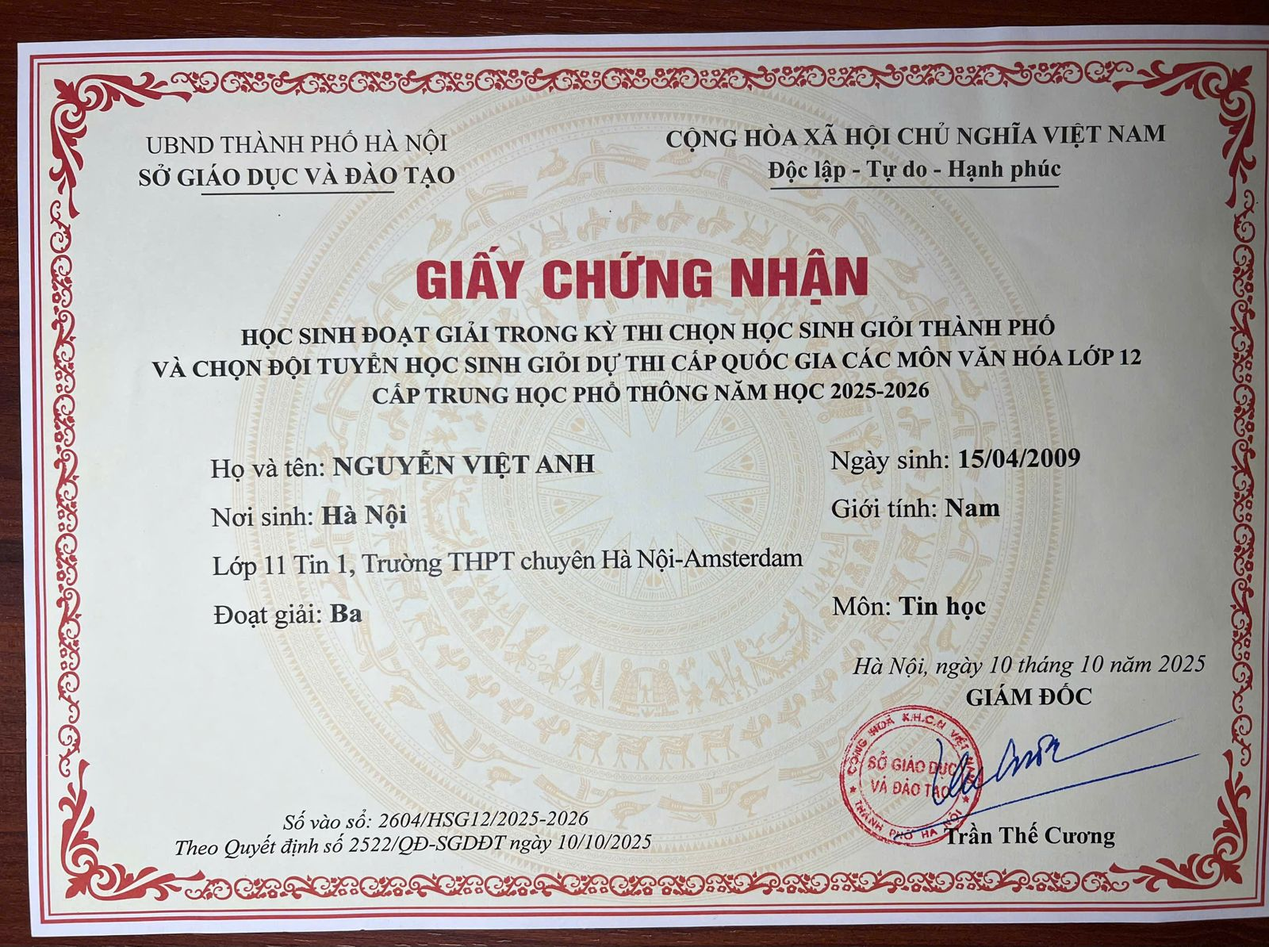
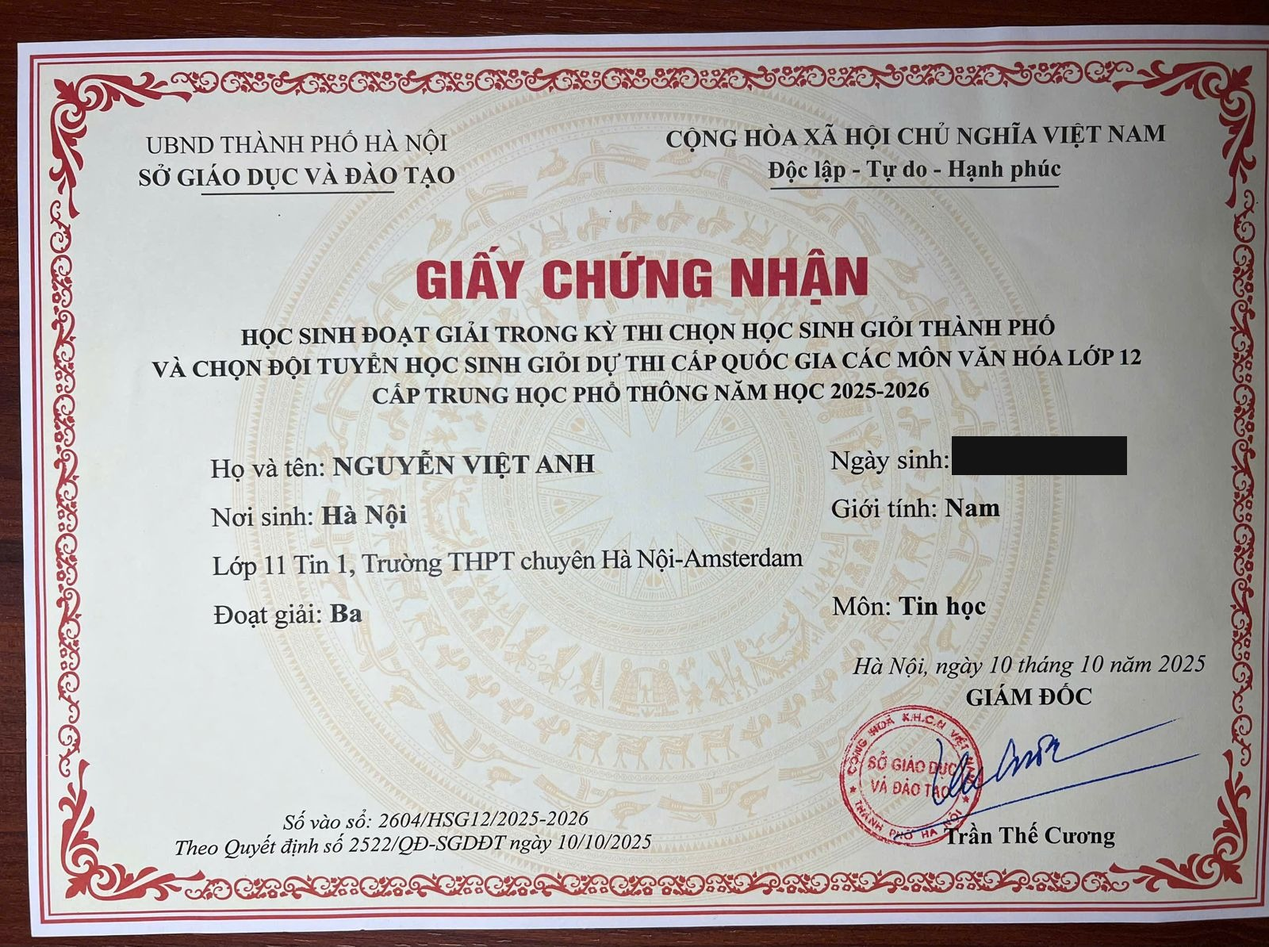
QA pass: add 2 missing international awards, redact DOB from cert scan
- Add AI-JAM US 2026 Gold Award (MediCare Hub) and AXGO AX Global
  Olympiad 2026 Grand Prix (AI Table Tennis Coach) to the awards
  section (VI+EN) and journey timeline; both were sitting in the
  student's Drive folder but never made it onto the site.
- Redact date of birth (15/04/2009) that was legible on the existing
  "Giai Ba cap thanh pho" certificate thumbnail already used on the
  site, per privacy policy.

Changed region(s): [[0.75, 0.4338, 0.9062, 0.5268]]

diff --git a/index.html b/index.html
@@ -116,4 +116,4 @@ footer{border-top:1px solid #d8dee4;color:#6e7781;font-size:.8rem}
 .lang-switch{background:rgba(255,255,255,.92);border:1px solid #d0d7de;box-shadow:0 3px 10px rgba(31,35,40,.08)}
 .lbtn{color:#656d76;font-family:'Fira Code',monospace}.lbtn.active{background:#1f883d;color:#fff}
 .certimg{border-radius:8px;border:1px solid #d0d7de}
-</style></head><body class='lay-center aw-grid act-zig'><div class='lang-switch'><button class='lbtn' data-l='en'>EN</button><button class='lbtn' data-l='vi'>VI</button></div><div class='pane-vi' lang='vi'><header><div class='container'><div class='term'><div class='term-bar'><i></i><i></i><i></i><span>nguyenvietanh@portfolio:~</span></div><div class='term-body'><img class='avatar' src='assets/img/avatar.jpg' alt='Nguyễn Việt Anh'><div><span class='prompt'>$</span> <span class='cmd'>whoami</span></div><h1>Nguyễn Việt Anh</h1><div class='school'>THPT chuyên Hà Nội – Amsterdam · Lớp 11 Tin 1</div><div class='tagline'>Học sinh chuyên Tin · Huy chương Vàng HSGS Olympiad · Competitive Programming</div><div><br><span class='prompt'>$</span> <span class='cmd'>cat achievements.json</span></div><div class='stats'><div class='stat'><b>HCV</b><span>HSGS Olympiad – Tin học 2025</span></div><div class='stat'><b>Giải Ba</b><span>HSG TP Hà Nội lớp 12 (2025–26)</span></div><div class='stat'><b>Giải Ba</b><span>Olympic ĐHQGHN – Tin học</span></div></div></div></div></div></header><nav class='topnav'><a href='#about-vi'>Giới thiệu</a><a href='#awards-vi'>Thành tích</a><a href='#journey-vi'>Hành trình</a><a href='#activities-vi'>Hoạt động</a><a href='#skills-vi'>Kỹ năng</a></nav><main class='container'><section id='about-vi'><h2>Giới thiệu</h2><div class='card'><p style='margin-top:0'>Mình là Nguyễn Việt Anh, học sinh lớp 11 Tin 1, trường THPT chuyên Hà Nội – Amsterdam. Mình theo đuổi lập trình thi đấu (competitive programming) từ THCS và đã đạt nhiều giải thưởng Tin học các cấp: Huy chương Vàng HSGS Olympiad, giải Ba HSG Thành phố Hà Nội lớp 12 và giải Ba Olympic bậc THPT của ĐHQG Hà Nội khi mới học lớp 11. Mình cũng tích cực tham gia hoạt động thiện nguyện vì trẻ em.</p><blockquote class='quote'>“Mỗi bài toán khó đều có lời giải — chỉ cần đủ kiên nhẫn để debug.”</blockquote></div></section><section id='awards-vi'><h2>Thành tích & Giải thưởng</h2><div class='awgrid'><div class='card award reveal rk-gold'><div class='medal'>🥇</div><div class='awbody'><span class='rklab'>Vàng · Gold</span><h3>Huy chương Vàng môn Tin học – HSGS Olympiad (Olympic Chuyên KHTN)</h3><div class='org'>THPT Chuyên KHTN &amp; ĐH Khoa học Tự nhiên, 05/2025</div></div><a class='awthumb' href='assets/img/award-huy-chuong-vang-mon-tin-hoc-hsgs-olympiad-olympic-.jpg'><img src='assets/img/award-huy-chuong-vang-mon-tin-hoc-hsgs-olympiad-olympic-.jpg' alt='Huy chương Vàng môn Tin học – HSGS Olympiad (Olympic Chuyên KHTN)' loading='lazy'></a></div><div class='card award reveal rk-bronze'><div class='medal'>🥉</div><div class='awbody'><span class='rklab'>Đồng · Bronze</span><h3>Giải Ba kỳ thi chọn HSG Thành phố các môn văn hóa lớp 12 – môn Tin học (2025–2026)</h3><div class='org'>Sở GD&amp;ĐT Hà Nội – khi đang học lớp 11</div></div><a class='awthumb' href='assets/img/award-giai-ba-ky-thi-chon-hsg-thanh-pho-cac-mon-van-hoa-.jpg'><img src='assets/img/award-giai-ba-ky-thi-chon-hsg-thanh-pho-cac-mon-van-hoa-.jpg' alt='Giải Ba kỳ thi chọn HSG Thành phố các môn văn hóa lớp 12 – môn Tin học (2025–2026)' loading='lazy'></a></div><div class='card award reveal rk-bronze'><div class='medal'>🥉</div><div class='awbody'><span class='rklab'>Đồng · Bronze</span><h3>Giải Ba kỳ thi Olympic bậc THPT của ĐHQG Hà Nội – môn Tin học (2025–2026)</h3><div class='org'>Đại học Quốc gia Hà Nội</div></div></div><div class='card award reveal rk-silver'><div class='medal'>🥈</div><div class='awbody'><span class='rklab'>Bạc · Silver</span><h3>Giải Nhì kỳ thi HSG cấp quận môn Tin học (2023–2024)</h3><div class='org'>Phòng GD&amp;ĐT Quận Cầu Giấy – THCS Archimedes Academy</div></div><a class='awthumb' href='assets/img/award-giai-nhi-ky-thi-hsg-cap-quan-mon-tin-hoc-2023-2024.jpg'><img src='assets/img/award-giai-nhi-ky-thi-hsg-cap-quan-mon-tin-hoc-2023-2024.jpg' alt='Giải Nhì kỳ thi HSG cấp quận môn Tin học (2023–2024)' loading='lazy'></a></div></div></section><section id='journey-vi'><h2>Hành trình</h2><div class='card reveal'><div class='tl'><div class='tl-item'><span class='tl-year'>2023</span><p>Giải Nhì kỳ thi HSG cấp quận môn Tin học (Quận Cầu Giấy) khi học lớp 9 tại THCS Archimedes Academy.</p></div><div class='tl-item'><span class='tl-year'>2024</span><p>Trúng tuyển lớp chuyên Tin, THPT chuyên Hà Nội – Amsterdam.</p></div><div class='tl-item'><span class='tl-year'>2025</span><p>Huy chương Vàng môn Tin học tại HSGS Olympiad (05/2025); Giải Ba HSG Thành phố lớp 12 môn Tin học khi đang học lớp 11 (10/2025).</p></div><div class='tl-item'><span class='tl-year'>2026</span><p>Giải Ba Olympic bậc THPT của ĐHQG Hà Nội môn Tin học (01/2026); thiện nguyện tại Bệnh viện Nhi Trung ương; phát triển ý tưởng “Hệ thống an toàn cho ô tô”.</p></div></div><a href='assets/img/journey-roadmap.jpg'><img class='certimg' style='max-width:100%;margin-top:14px' src='assets/img/journey-roadmap.jpg' alt='journey roadmap' loading='lazy'></a></div></section><section id='activities-vi'><h2>Hoạt động ngoại khóa & Dự án</h2><div class='actwrap'><div class='card reveal'><h3>Sản phẩm cá nhân: Hệ thống an toàn cho ô tô (AI + IoT)</h3><p>Thiết kế hệ thống an toàn toàn diện cho ô tô gồm: hệ thống đo mức độ tập trung của người lái xe bằng thiết bị đeo tai kết hợp camera xử lý ảnh; các cảm biến phát hiện trẻ em bị bỏ quên trên xe; cảm biến phát hiện chất độc hại trong khoang xe như cồn, khói thuốc lá, nhiệt độ cao, khí CO2…; và mô-đun dự đoán nguy hiểm xung quanh xe bằng công nghệ AI kết hợp cảm biến IoT.</p><ul class='pts'><li>Đo mức độ tập trung của người lái xe bằng thiết bị đeo tai kết hợp camera xử lý ảnh.</li><li>Cụm cảm biến phát hiện trẻ em bị bỏ quên trên xe.</li><li>Phát hiện tác nhân nguy hiểm trong khoang xe: nồng độ cồn, khói thuốc lá, nhiệt độ cao, khí CO2…</li><li>Dự đoán nguy hiểm xung quanh ô tô bằng công nghệ AI kết hợp mạng cảm biến IoT.</li></ul><div class='gallery'><a href='assets/img/act0-0.jpg'><img src='assets/img/act0-0.jpg' alt='Sản phẩm cá nhân: Hệ thống an toàn cho ô tô (AI + IoT)' loading='lazy'></a></div></div><div class='card reveal'><h3>Thiện nguyện tại Bệnh viện Nhi Trung ương (2026)</h3><p>Tham gia thăm hỏi, tặng quà và tổ chức hoạt động cho các bệnh nhi đang điều trị tại Bệnh viện Nhi Trung ương, Hà Nội.</p><div class='gallery'><a href='assets/img/act1-0.jpg'><img src='assets/img/act1-0.jpg' alt='Thiện nguyện tại Bệnh viện Nhi Trung ương (2026)' loading='lazy'></a><a href='assets/img/act1-1.jpg'><img src='assets/img/act1-1.jpg' alt='Thiện nguyện tại Bệnh viện Nhi Trung ương (2026)' loading='lazy'></a><a href='assets/img/act1-2.jpg'><img src='assets/img/act1-2.jpg' alt='Thiện nguyện tại Bệnh viện Nhi Trung ương (2026)' loading='lazy'></a><a href='assets/img/act1-3.jpg'><img src='assets/img/act1-3.jpg' alt='Thiện nguyện tại Bệnh viện Nhi Trung ương (2026)' loading='lazy'></a><a href='assets/img/act1-4.jpg'><img src='assets/img/act1-4.jpg' alt='Thiện nguyện tại Bệnh viện Nhi Trung ương (2026)' loading='lazy'></a><a href='assets/img/act1-5.jpg'><img src='assets/img/act1-5.jpg' alt='Thiện nguyện tại Bệnh viện Nhi Trung ương (2026)' loading='lazy'></a><a href='assets/img/act1-6.jpg'><img src='assets/img/act1-6.jpg' alt='Thiện nguyện tại Bệnh viện Nhi Trung ương (2026)' loading='lazy'></a><a href='assets/img/act1-7.jpg'><img src='assets/img/act1-7.jpg' alt='Thiện nguyện tại Bệnh viện Nhi Trung ương (2026)' loading='lazy'></a></div></div><div class='card reveal'><h3>Trải nghiệm ngoại khóa Tuyên Quang 2026</h3><p>Chuyến trải nghiệm ngoại khóa tại Tuyên Quang cùng học sinh nhiều trường: sinh hoạt chuyên đề tại hội trường, giao lưu và các hoạt động làm việc nhóm.</p><div class='gallery'><a href='assets/img/act2-0.jpg'><img src='assets/img/act2-0.jpg' alt='Trải nghiệm ngoại khóa Tuyên Quang 2026' loading='lazy'></a><a href='assets/img/act2-1.jpg'><img src='assets/img/act2-1.jpg' alt='Trải nghiệm ngoại khóa Tuyên Quang 2026' loading='lazy'></a><a href='assets/img/act2-2.jpg'><img src='assets/img/act2-2.jpg' alt='Trải nghiệm ngoại khóa Tuyên Quang 2026' loading='lazy'></a><a href='assets/img/act2-3.jpg'><img src='assets/img/act2-3.jpg' alt='Trải nghiệm ngoại khóa Tuyên Quang 2026' loading='lazy'></a><a href='assets/img/act2-4.jpg'><img src='assets/img/act2-4.jpg' alt='Trải nghiệm ngoại khóa Tuyên Quang 2026' loading='lazy'></a><a href='assets/img/act2-5.jpg'><img src='assets/img/act2-5.jpg' alt='Trải nghiệm ngoại khóa Tuyên Quang 2026' loading='lazy'></a><a href='assets/img/act2-6.jpg'><img src='assets/img/act2-6.jpg' alt='Trải nghiệm ngoại khóa Tuyên Quang 2026' loading='lazy'></a><a href='assets/img/act2-7.jpg'><img src='assets/img/act2-7.jpg' alt='Trải nghiệm ngoại khóa Tuyên Quang 2026' loading='lazy'></a><a href='assets/img/act2-8.jpg'><img src='assets/img/act2-8.jpg' alt='Trải nghiệm ngoại khóa Tuyên Quang 2026' loading='lazy'></a><a href='assets/img/act2-9.jpg'><img src='assets/img/act2-9.jpg' alt='Trải nghiệm ngoại khóa Tuyên Quang 2026' loading='lazy'></a><a href='assets/img/act2-10.jpg'><img src='assets/img/act2-10.jpg' alt='Trải nghiệm ngoại khóa Tuyên Quang 2026' loading='lazy'></a></div></div></div></section><div class='twocol'><section id='skills-vi'><h2>Kỹ năng</h2><div class='card reveal'><div class='skillgrid' style='grid-template-columns:1fr'><div class='skill'><span>C++ &amp; lập trình thi đấu<em>95%</em></span><div class='bar'><i style='width:95%'></i></div></div><div class='skill'><span>Thuật toán &amp; cấu trúc dữ liệu<em>92%</em></span><div class='bar'><i style='width:92%'></i></div></div><div class='skill'><span>Python<em>75%</em></span><div class='bar'><i style='width:75%'></i></div></div><div class='skill'><span>Tư duy giải quyết vấn đề<em>90%</em></span><div class='bar'><i style='width:90%'></i></div></div><div class='skill'><span>Thiết kế hệ thống IoT<em>70%</em></span><div class='bar'><i style='width:70%'></i></div></div></div><a href='assets/img/skill-radar.jpg'><img class='certimg' style='max-width:100%;margin-top:20px' src='assets/img/skill-radar.jpg' alt='skill radar' loading='lazy'></a></div></section><section><h2>Sở thích & Quan tâm</h2><div class='card'><div class='chips'><span>Competitive programming</span><span>An toàn giao thông</span><span>AI ứng dụng</span><span>Thiện nguyện</span></div></div><h2 style='margin-top:26px'>Định hướng tương lai</h2><div class='card'><p style='margin-top:0'>Mục tiêu gần của mình là giành suất vào đội tuyển HSG Quốc gia môn Tin học. Xa hơn, mình muốn theo đuổi ngành Khoa học Máy tính, hiện thực hóa hệ thống an toàn ô tô bằng AI + IoT từ bản thiết kế thành nguyên mẫu chạy thật.</p></div></section></div></main><footer>© 2026 Nguyễn Việt Anh · Portfolio học sinh</footer></div><div class='pane-en' lang='en'><header><div class='container'><div class='term'><div class='term-bar'><i></i><i></i><i></i><span>nguyenvietanh@portfolio:~</span></div><div class='term-body'><img class='avatar' src='assets/img/avatar.jpg' alt='Nguyễn Việt Anh'><div><span class='prompt'>$</span> <span class='cmd'>whoami</span></div><h1>Nguyễn Việt Anh</h1><div class='school'>Hanoi – Amsterdam High School for the Gifted · Class 11 Informatics 1</div><div class='tagline'>Informatics-major student · HSGS Olympiad Gold Medalist · Competitive programming</div><div><br><span class='prompt'>$</span> <span class='cmd'>cat achievements.json</span></div><div class='stats'><div class='stat'><b>HCV</b><span>HSGS Olympiad Gold – Informatics 2025</span></div><div class='stat'><b>3rd Prize</b><span>Hanoi City Contest, Grade 12 (2025–26)</span></div><div class='stat'><b>3rd Prize</b><span>VNU Hanoi Olympiad – Informatics</span></div></div></div></div></div></header><nav class='topnav'><a href='#about-en'>About</a><a href='#awards-en'>Awards</a><a href='#journey-en'>Journey</a><a href='#activities-en'>Activities</a><a href='#skills-en'>Skills</a></nav><main class='container'><section id='about-en'><h2>About Me</h2><div class='card'><p style='margin-top:0'>I am Nguyen Viet Anh, a student of Class 11 Informatics 1 at Hanoi – Amsterdam High School for the Gifted. I have pursued competitive programming since middle school and have won Informatics awards at every level: a Gold Medal at the HSGS Olympiad, Third Prize at the Hanoi City Grade-12 Contest and Third Prize at the VNU Hanoi High-School Olympiad — all while still in grade 11. I also volunteer for children&#x27;s causes.</p><blockquote class='quote'>“Every hard problem has a solution — you just need the patience to debug it.”</blockquote></div></section><section id='awards-en'><h2>Honors & Awards</h2><div class='awgrid'><div class='card award reveal rk-gold'><div class='medal'>🥇</div><div class='awbody'><span class='rklab'>Gold</span><h3>Gold Medal in Informatics – HSGS Olympiad</h3><div class='org'>HSGS &amp; VNU University of Science, May 2025</div></div><a class='awthumb' href='assets/img/award-huy-chuong-vang-mon-tin-hoc-hsgs-olympiad-olympic-.jpg'><img src='assets/img/award-huy-chuong-vang-mon-tin-hoc-hsgs-olympiad-olympic-.jpg' alt='Gold Medal in Informatics – HSGS Olympiad' loading='lazy'></a></div><div class='card award reveal rk-bronze'><div class='medal'>🥉</div><div class='awbody'><span class='rklab'>Bronze</span><h3>Third Prize – Hanoi City Excellent Student Contest, Grade-12 Informatics (2025–2026)</h3><div class='org'>Hanoi Department of Education &amp; Training – achieved while in grade 11</div></div><a class='awthumb' href='assets/img/award-giai-ba-ky-thi-chon-hsg-thanh-pho-cac-mon-van-hoa-.jpg'><img src='assets/img/award-giai-ba-ky-thi-chon-hsg-thanh-pho-cac-mon-van-hoa-.jpg' alt='Third Prize – Hanoi City Excellent Student Contest, Grade-12 Informatics (2025–2026)' loading='lazy'></a></div><div class='card award reveal rk-bronze'><div class='medal'>🥉</div><div class='awbody'><span class='rklab'>Bronze</span><h3>Third Prize – VNU Hanoi High-School Olympiad in Informatics (2025–2026)</h3><div class='org'>Vietnam National University, Hanoi</div></div></div><div class='card award reveal rk-silver'><div class='medal'>🥈</div><div class='awbody'><span class='rklab'>Silver</span><h3>Second Prize – District Excellent Student Contest in Informatics (2023–2024)</h3><div class='org'>Cau Giay District – Archimedes Academy Secondary School</div></div><a class='awthumb' href='assets/img/award-giai-nhi-ky-thi-hsg-cap-quan-mon-tin-hoc-2023-2024.jpg'><img src='assets/img/award-giai-nhi-ky-thi-hsg-cap-quan-mon-tin-hoc-2023-2024.jpg' alt='Second Prize – District Excellent Student Contest in Informatics (2023–2024)' loading='lazy'></a></div></div></section><section id='journey-en'><h2>Journey</h2><div class='card reveal'><div class='tl'><div class='tl-item'><span class='tl-year'>2023</span><p>Second Prize at the district Informatics contest (Cau Giay) while in grade 9 at Archimedes Academy.</p></div><div class='tl-item'><span class='tl-year'>2024</span><p>Admitted to the Informatics-major class at Hanoi – Amsterdam High School for the Gifted.</p></div><div class='tl-item'><span class='tl-year'>2025</span><p>Gold Medal in Informatics at the HSGS Olympiad (May 2025); Third Prize at the Hanoi City grade-12 Informatics contest while in grade 11 (Oct 2025).</p></div><div class='tl-item'><span class='tl-year'>2026</span><p>Third Prize at the VNU Hanoi High-School Olympiad in Informatics (Jan 2026); volunteered at the National Children&#x27;s Hospital; developing the “Car safety system” concept.</p></div></div><a href='assets/img/journey-roadmap.jpg'><img class='certimg' style='max-width:100%;margin-top:14px' src='assets/img/journey-roadmap.jpg' alt='journey roadmap' loading='lazy'></a></div></section><section id='activities-en'><h2>Extracurriculars & Projects</h2><div class='actwrap'><div class='card reveal'><h3>Personal project: Car safety system (AI + IoT)</h3><p>Designing a comprehensive car-safety system: a driver-attention monitor combining an ear-worn device with an image-processing camera; sensors detecting children left behind in the car; cabin sensors detecting hazards such as alcohol, cigarette smoke, high temperature and CO2; and an AI + IoT module predicting dangers around the vehicle.</p><ul class='pts'><li>Driver-attention measurement using an ear-worn device combined with an image-processing camera.</li><li>Sensor cluster detecting children accidentally left in the vehicle.</li><li>Cabin-hazard detection: alcohol vapour, cigarette smoke, high temperature, CO2 levels…</li><li>Danger prediction around the vehicle using AI combined with an IoT sensor network.</li></ul><div class='gallery'><a href='assets/img/act0-0.jpg'><img src='assets/img/act0-0.jpg' alt='Personal project: Car safety system (AI + IoT)' loading='lazy'></a></div></div><div class='card reveal'><h3>Volunteering at the National Children&#x27;s Hospital (2026)</h3><p>Visited, gave gifts and organized activities for young patients at the National Children&#x27;s Hospital, Hanoi.</p><div class='gallery'><a href='assets/img/act1-0.jpg'><img src='assets/img/act1-0.jpg' alt='Volunteering at the National Children&#x27;s Hospital (2026)' loading='lazy'></a><a href='assets/img/act1-1.jpg'><img src='assets/img/act1-1.jpg' alt='Volunteering at the National Children&#x27;s Hospital (2026)' loading='lazy'></a><a href='assets/img/act1-2.jpg'><img src='assets/img/act1-2.jpg' alt='Volunteering at the National Children&#x27;s Hospital (2026)' loading='lazy'></a><a href='assets/img/act1-3.jpg'><img src='assets/img/act1-3.jpg' alt='Volunteering at the National Children&#x27;s Hospital (2026)' loading='lazy'></a><a href='assets/img/act1-4.jpg'><img src='assets/img/act1-4.jpg' alt='Volunteering at the National Children&#x27;s Hospital (2026)' loading='lazy'></a><a href='assets/img/act1-5.jpg'><img src='assets/img/act1-5.jpg' alt='Volunteering at the National Children&#x27;s Hospital (2026)' loading='lazy'></a><a href='assets/img/act1-6.jpg'><img src='assets/img/act1-6.jpg' alt='Volunteering at the National Children&#x27;s Hospital (2026)' loading='lazy'></a><a href='assets/img/act1-7.jpg'><img src='assets/img/act1-7.jpg' alt='Volunteering at the National Children&#x27;s Hospital (2026)' loading='lazy'></a></div></div><div class='card reveal'><h3>Tuyên Quang Excursion 2026</h3><p>An extracurricular excursion to Tuyên Quang with students from many schools: hall seminars, exchange sessions and team-building activities.</p><div class='gallery'><a href='assets/img/act2-0.jpg'><img src='assets/img/act2-0.jpg' alt='Tuyên Quang Excursion 2026' loading='lazy'></a><a href='assets/img/act2-1.jpg'><img src='assets/img/act2-1.jpg' alt='Tuyên Quang Excursion 2026' loading='lazy'></a><a href='assets/img/act2-2.jpg'><img src='assets/img/act2-2.jpg' alt='Tuyên Quang Excursion 2026' loading='lazy'></a><a href='assets/img/act2-3.jpg'><img src='assets/img/act2-3.jpg' alt='Tuyên Quang Excursion 2026' loading='lazy'></a><a href='assets/img/act2-4.jpg'><img src='assets/img/act2-4.jpg' alt='Tuyên Quang Excursion 2026' loading='lazy'></a><a href='assets/img/act2-5.jpg'><img src='assets/img/act2-5.jpg' alt='Tuyên Quang Excursion 2026' loading='lazy'></a><a href='assets/img/act2-6.jpg'><img src='assets/img/act2-6.jpg' alt='Tuyên Quang Excursion 2026' loading='lazy'></a><a href='assets/img/act2-7.jpg'><img src='assets/img/act2-7.jpg' alt='Tuyên Quang Excursion 2026' loading='lazy'></a><a href='assets/img/act2-8.jpg'><img src='assets/img/act2-8.jpg' alt='Tuyên Quang Excursion 2026' loading='lazy'></a><a href='assets/img/act2-9.jpg'><img src='assets/img/act2-9.jpg' alt='Tuyên Quang Excursion 2026' loading='lazy'></a><a href='assets/img/act2-10.jpg'><img src='assets/img/act2-10.jpg' alt='Tuyên Quang Excursion 2026' loading='lazy'></a></div></div></div></section><div class='twocol'><section id='skills-en'><h2>Skills</h2><div class='card reveal'><div class='skillgrid' style='grid-template-columns:1fr'><div class='skill'><span>C++ &amp; competitive programming<em>95%</em></span><div class='bar'><i style='width:95%'></i></div></div><div class='skill'><span>Algorithms &amp; data structures<em>92%</em></span><div class='bar'><i style='width:92%'></i></div></div><div class='skill'><span>Python<em>75%</em></span><div class='bar'><i style='width:75%'></i></div></div><div class='skill'><span>Problem solving<em>90%</em></span><div class='bar'><i style='width:90%'></i></div></div><div class='skill'><span>IoT system design<em>70%</em></span><div class='bar'><i style='width:70%'></i></div></div></div><a href='assets/img/skill-radar.jpg'><img class='certimg' style='max-width:100%;margin-top:20px' src='assets/img/skill-radar.jpg' alt='skill radar' loading='lazy'></a></div></section><section><h2>Interests</h2><div class='card'><div class='chips'><span>Competitive programming</span><span>Road safety</span><span>Applied AI</span><span>Volunteering</span></div></div><h2 style='margin-top:26px'>Future Goals</h2><div class='card'><p style='margin-top:0'>My near-term goal is a spot on the national Informatics olympiad team. Longer term, I want to study Computer Science and turn my AI + IoT car-safety system from a design into a working prototype.</p></div></section></div></main><footer>© 2026 Nguyễn Việt Anh · Student Portfolio</footer></div><script>function setLang(l,save){document.body.classList.toggle('lang-en',l==='en');document.documentElement.lang=l;if(save){try{localStorage.setItem('plang',l)}catch(e){}}document.querySelectorAll('.lbtn').forEach(function(b){b.classList.toggle('active',b.dataset.l===l)});}document.querySelectorAll('.lbtn').forEach(function(b){b.addEventListener('click',function(){setLang(b.dataset.l,true)})});var saved='en';try{saved=localStorage.getItem('plang')||'en'}catch(e){}setLang(saved,false);var io=new IntersectionObserver(function(es){es.forEach(function(x){if(x.isIntersecting){x.target.classList.add('in');io.unobserve(x.target)}})},{threshold:.08});document.querySelectorAll('.reveal').forEach(function(el){io.observe(el)});var lb=document.createElement('div');lb.className='lb';lb.innerHTML='<img>';document.body.appendChild(lb);lb.addEventListener('click',function(){lb.classList.remove('open')});document.querySelectorAll('.gallery a,.awthumb').forEach(function(a){a.addEventListener('click',function(ev){ev.preventDefault();lb.querySelector('img').src=a.getAttribute('href');lb.classList.add('open')})});</script></body></html>
+</style></head><body class='lay-center aw-grid act-zig'><div class='lang-switch'><button class='lbtn' data-l='en'>EN</button><button class='lbtn' data-l='vi'>VI</button></div><div class='pane-vi' lang='vi'><header><div class='container'><div class='term'><div class='term-bar'><i></i><i></i><i></i><span>nguyenvietanh@portfolio:~</span></div><div class='term-body'><img class='avatar' src='assets/img/avatar.jpg' alt='Nguyễn Việt Anh'><div><span class='prompt'>$</span> <span class='cmd'>whoami</span></div><h1>Nguyễn Việt Anh</h1><div class='school'>THPT chuyên Hà Nội – Amsterdam · Lớp 11 Tin 1</div><div class='tagline'>Học sinh chuyên Tin · Huy chương Vàng HSGS Olympiad · Competitive Programming</div><div><br><span class='prompt'>$</span> <span class='cmd'>cat achievements.json</span></div><div class='stats'><div class='stat'><b>HCV</b><span>HSGS Olympiad – Tin học 2025</span></div><div class='stat'><b>Giải Ba</b><span>HSG TP Hà Nội lớp 12 (2025–26)</span></div><div class='stat'><b>Giải Ba</b><span>Olympic ĐHQGHN – Tin học</span></div></div></div></div></div></header><nav class='topnav'><a href='#about-vi'>Giới thiệu</a><a href='#awards-vi'>Thành tích</a><a href='#journey-vi'>Hành trình</a><a href='#activities-vi'>Hoạt động</a><a href='#skills-vi'>Kỹ năng</a></nav><main class='container'><section id='about-vi'><h2>Giới thiệu</h2><div class='card'><p style='margin-top:0'>Mình là Nguyễn Việt Anh, học sinh lớp 11 Tin 1, trường THPT chuyên Hà Nội – Amsterdam. Mình theo đuổi lập trình thi đấu (competitive programming) từ THCS và đã đạt nhiều giải thưởng Tin học các cấp: Huy chương Vàng HSGS Olympiad, giải Ba HSG Thành phố Hà Nội lớp 12 và giải Ba Olympic bậc THPT của ĐHQG Hà Nội khi mới học lớp 11. Mình cũng tích cực tham gia hoạt động thiện nguyện vì trẻ em.</p><blockquote class='quote'>“Mỗi bài toán khó đều có lời giải — chỉ cần đủ kiên nhẫn để debug.”</blockquote></div></section><section id='awards-vi'><h2>Thành tích & Giải thưởng</h2><div class='awgrid'><div class='card award reveal rk-gold'><div class='medal'>🥇</div><div class='awbody'><span class='rklab'>Vàng · Gold</span><h3>Huy chương Vàng môn Tin học – HSGS Olympiad (Olympic Chuyên KHTN)</h3><div class='org'>THPT Chuyên KHTN &amp; ĐH Khoa học Tự nhiên, 05/2025</div></div><a class='awthumb' href='assets/img/award-huy-chuong-vang-mon-tin-hoc-hsgs-olympiad-olympic-.jpg'><img src='assets/img/award-huy-chuong-vang-mon-tin-hoc-hsgs-olympiad-olympic-.jpg' alt='Huy chương Vàng môn Tin học – HSGS Olympiad (Olympic Chuyên KHTN)' loading='lazy'></a></div><div class='card award reveal rk-bronze'><div class='medal'>🥉</div><div class='awbody'><span class='rklab'>Đồng · Bronze</span><h3>Giải Ba kỳ thi chọn HSG Thành phố các môn văn hóa lớp 12 – môn Tin học (2025–2026)</h3><div class='org'>Sở GD&amp;ĐT Hà Nội – khi đang học lớp 11</div></div><a class='awthumb' href='assets/img/award-giai-ba-ky-thi-chon-hsg-thanh-pho-cac-mon-van-hoa-.jpg'><img src='assets/img/award-giai-ba-ky-thi-chon-hsg-thanh-pho-cac-mon-van-hoa-.jpg' alt='Giải Ba kỳ thi chọn HSG Thành phố các môn văn hóa lớp 12 – môn Tin học (2025–2026)' loading='lazy'></a></div><div class='card award reveal rk-bronze'><div class='medal'>🥉</div><div class='awbody'><span class='rklab'>Đồng · Bronze</span><h3>Giải Ba kỳ thi Olympic bậc THPT của ĐHQG Hà Nội – môn Tin học (2025–2026)</h3><div class='org'>Đại học Quốc gia Hà Nội</div></div></div><div class='card award reveal rk-silver'><div class='medal'>🥈</div><div class='awbody'><span class='rklab'>Bạc · Silver</span><h3>Giải Nhì kỳ thi HSG cấp quận môn Tin học (2023–2024)</h3><div class='org'>Phòng GD&amp;ĐT Quận Cầu Giấy – THCS Archimedes Academy</div></div><a class='awthumb' href='assets/img/award-giai-nhi-ky-thi-hsg-cap-quan-mon-tin-hoc-2023-2024.jpg'><img src='assets/img/award-giai-nhi-ky-thi-hsg-cap-quan-mon-tin-hoc-2023-2024.jpg' alt='Giải Nhì kỳ thi HSG cấp quận môn Tin học (2023–2024)' loading='lazy'></a></div><div class='card award reveal rk-gold'><div class='medal'>🥇</div><div class='awbody'><span class='rklab'>Vàng · Gold</span><h3>Gold Award – AI-JAM US 2026 (Cuộc thi Sáng chế AI Quốc tế lần thứ 11)</h3><div class='org'>Dự án “MediCare Hub – All-in-One Smart Home Healthcare Ecosystem”, 09/2026</div></div><a class='awthumb' href='assets/img/award-gold-award-ai-jam-us-2026-medicare-hub.jpg'><img src='assets/img/award-gold-award-ai-jam-us-2026-medicare-hub.jpg' alt='Gold Award – AI-JAM US 2026' loading='lazy'></a></div><div class='card award reveal rk-gold'><div class='medal'>🏆</div><div class='awbody'><span class='rklab'>Grand Prix</span><h3>Grand Prix Award – AXGO AX Global Olympiad 2026</h3><div class='org'>Dự án “AI Table Tennis Coach”, 07/2026</div></div><a class='awthumb' href='assets/img/award-grand-prix-award-axgo-2026-ai-table-tennis-coach.jpg'><img src='assets/img/award-grand-prix-award-axgo-2026-ai-table-tennis-coach.jpg' alt='Grand Prix Award – AXGO AX Global Olympiad 2026' loading='lazy'></a></div></div></section><section id='journey-vi'><h2>Hành trình</h2><div class='card reveal'><div class='tl'><div class='tl-item'><span class='tl-year'>2023</span><p>Giải Nhì kỳ thi HSG cấp quận môn Tin học (Quận Cầu Giấy) khi học lớp 9 tại THCS Archimedes Academy.</p></div><div class='tl-item'><span class='tl-year'>2024</span><p>Trúng tuyển lớp chuyên Tin, THPT chuyên Hà Nội – Amsterdam.</p></div><div class='tl-item'><span class='tl-year'>2025</span><p>Huy chương Vàng môn Tin học tại HSGS Olympiad (05/2025); Giải Ba HSG Thành phố lớp 12 môn Tin học khi đang học lớp 11 (10/2025).</p></div><div class='tl-item'><span class='tl-year'>2026</span><p>Giải Ba Olympic bậc THPT của ĐHQG Hà Nội môn Tin học (01/2026); thiện nguyện tại Bệnh viện Nhi Trung ương; Grand Prix AXGO AX Global Olympiad với dự án “AI Table Tennis Coach” (07/2026); Gold Award AI-JAM US với dự án “MediCare Hub” (09/2026); phát triển ý tưởng “Hệ thống an toàn cho ô tô”.</p></div></div><a href='assets/img/journey-roadmap.jpg'><img class='certimg' style='max-width:100%;margin-top:14px' src='assets/img/journey-roadmap.jpg' alt='journey roadmap' loading='lazy'></a></div></section><section id='activities-vi'><h2>Hoạt động ngoại khóa & Dự án</h2><div class='actwrap'><div class='card reveal'><h3>Sản phẩm cá nhân: Hệ thống an toàn cho ô tô (AI + IoT)</h3><p>Thiết kế hệ thống an toàn toàn diện cho ô tô gồm: hệ thống đo mức độ tập trung của người lái xe bằng thiết bị đeo tai kết hợp camera xử lý ảnh; các cảm biến phát hiện trẻ em bị bỏ quên trên xe; cảm biến phát hiện chất độc hại trong khoang xe như cồn, khói thuốc lá, nhiệt độ cao, khí CO2…; và mô-đun dự đoán nguy hiểm xung quanh xe bằng công nghệ AI kết hợp cảm biến IoT.</p><ul class='pts'><li>Đo mức độ tập trung của người lái xe bằng thiết bị đeo tai kết hợp camera xử lý ảnh.</li><li>Cụm cảm biến phát hiện trẻ em bị bỏ quên trên xe.</li><li>Phát hiện tác nhân nguy hiểm trong khoang xe: nồng độ cồn, khói thuốc lá, nhiệt độ cao, khí CO2…</li><li>Dự đoán nguy hiểm xung quanh ô tô bằng công nghệ AI kết hợp mạng cảm biến IoT.</li></ul><div class='gallery'><a href='assets/img/act0-0.jpg'><img src='assets/img/act0-0.jpg' alt='Sản phẩm cá nhân: Hệ thống an toàn cho ô tô (AI + IoT)' loading='lazy'></a></div></div><div class='card reveal'><h3>Thiện nguyện tại Bệnh viện Nhi Trung ương (2026)</h3><p>Tham gia thăm hỏi, tặng quà và tổ chức hoạt động cho các bệnh nhi đang điều trị tại Bệnh viện Nhi Trung ương, Hà Nội.</p><div class='gallery'><a href='assets/img/act1-0.jpg'><img src='assets/img/act1-0.jpg' alt='Thiện nguyện tại Bệnh viện Nhi Trung ương (2026)' loading='lazy'></a><a href='assets/img/act1-1.jpg'><img src='assets/img/act1-1.jpg' alt='Thiện nguyện tại Bệnh viện Nhi Trung ương (2026)' loading='lazy'></a><a href='assets/img/act1-2.jpg'><img src='assets/img/act1-2.jpg' alt='Thiện nguyện tại Bệnh viện Nhi Trung ương (2026)' loading='lazy'></a><a href='assets/img/act1-3.jpg'><img src='assets/img/act1-3.jpg' alt='Thiện nguyện tại Bệnh viện Nhi Trung ương (2026)' loading='lazy'></a><a href='assets/img/act1-4.jpg'><img src='assets/img/act1-4.jpg' alt='Thiện nguyện tại Bệnh viện Nhi Trung ương (2026)' loading='lazy'></a><a href='assets/img/act1-5.jpg'><img src='assets/img/act1-5.jpg' alt='Thiện nguyện tại Bệnh viện Nhi Trung ương (2026)' loading='lazy'></a><a href='assets/img/act1-6.jpg'><img src='assets/img/act1-6.jpg' alt='Thiện nguyện tại Bệnh viện Nhi Trung ương (2026)' loading='lazy'></a><a href='assets/img/act1-7.jpg'><img src='assets/img/act1-7.jpg' alt='Thiện nguyện tại Bệnh viện Nhi Trung ương (2026)' loading='lazy'></a></div></div><div class='card reveal'><h3>Trải nghiệm ngoại khóa Tuyên Quang 2026</h3><p>Chuyến trải nghiệm ngoại khóa tại Tuyên Quang cùng học sinh nhiều trường: sinh hoạt chuyên đề tại hội trường, giao lưu và các hoạt động làm việc nhóm.</p><div class='gallery'><a href='assets/img/act2-0.jpg'><img src='assets/img/act2-0.jpg' alt='Trải nghiệm ngoại khóa Tuyên Quang 2026' loading='lazy'></a><a href='assets/img/act2-1.jpg'><img src='assets/img/act2-1.jpg' alt='Trải nghiệm ngoại khóa Tuyên Quang 2026' loading='lazy'></a><a href='assets/img/act2-2.jpg'><img src='assets/img/act2-2.jpg' alt='Trải nghiệm ngoại khóa Tuyên Quang 2026' loading='lazy'></a><a href='assets/img/act2-3.jpg'><img src='assets/img/act2-3.jpg' alt='Trải nghiệm ngoại khóa Tuyên Quang 2026' loading='lazy'></a><a href='assets/img/act2-4.jpg'><img src='assets/img/act2-4.jpg' alt='Trải nghiệm ngoại khóa Tuyên Quang 2026' loading='lazy'></a><a href='assets/img/act2-5.jpg'><img src='assets/img/act2-5.jpg' alt='Trải nghiệm ngoại khóa Tuyên Quang 2026' loading='lazy'></a><a href='assets/img/act2-6.jpg'><img src='assets/img/act2-6.jpg' alt='Trải nghiệm ngoại khóa Tuyên Quang 2026' loading='lazy'></a><a href='assets/img/act2-7.jpg'><img src='assets/img/act2-7.jpg' alt='Trải nghiệm ngoại khóa Tuyên Quang 2026' loading='lazy'></a><a href='assets/img/act2-8.jpg'><img src='assets/img/act2-8.jpg' alt='Trải nghiệm ngoại khóa Tuyên Quang 2026' loading='lazy'></a><a href='assets/img/act2-9.jpg'><img src='assets/img/act2-9.jpg' alt='Trải nghiệm ngoại khóa Tuyên Quang 2026' loading='lazy'></a><a href='assets/img/act2-10.jpg'><img src='assets/img/act2-10.jpg' alt='Trải nghiệm ngoại khóa Tuyên Quang 2026' loading='lazy'></a></div></div></div></section><div class='twocol'><section id='skills-vi'><h2>Kỹ năng</h2><div class='card reveal'><div class='skillgrid' style='grid-template-columns:1fr'><div class='skill'><span>C++ &amp; lập trình thi đấu<em>95%</em></span><div class='bar'><i style='width:95%'></i></div></div><div class='skill'><span>Thuật toán &amp; cấu trúc dữ liệu<em>92%</em></span><div class='bar'><i style='width:92%'></i></div></div><div class='skill'><span>Python<em>75%</em></span><div class='bar'><i style='width:75%'></i></div></div><div class='skill'><span>Tư duy giải quyết vấn đề<em>90%</em></span><div class='bar'><i style='width:90%'></i></div></div><div class='skill'><span>Thiết kế hệ thống IoT<em>70%</em></span><div class='bar'><i style='width:70%'></i></div></div></div><a href='assets/img/skill-radar.jpg'><img class='certimg' style='max-width:100%;margin-top:20px' src='assets/img/skill-radar.jpg' alt='skill radar' loading='lazy'></a></div></section><section><h2>Sở thích & Quan tâm</h2><div class='card'><div class='chips'><span>Competitive programming</span><span>An toàn giao thông</span><span>AI ứng dụng</span><span>Thiện nguyện</span></div></div><h2 style='margin-top:26px'>Định hướng tương lai</h2><div class='card'><p style='margin-top:0'>Mục tiêu gần của mình là giành suất vào đội tuyển HSG Quốc gia môn Tin học. Xa hơn, mình muốn theo đuổi ngành Khoa học Máy tính, hiện thực hóa hệ thống an toàn ô tô bằng AI + IoT từ bản thiết kế thành nguyên mẫu chạy thật.</p></div></section></div></main><footer>© 2026 Nguyễn Việt Anh · Portfolio học sinh</footer></div><div class='pane-en' lang='en'><header><div class='container'><div class='term'><div class='term-bar'><i></i><i></i><i></i><span>nguyenvietanh@portfolio:~</span></div><div class='term-body'><img class='avatar' src='assets/img/avatar.jpg' alt='Nguyễn Việt Anh'><div><span class='prompt'>$</span> <span class='cmd'>whoami</span></div><h1>Nguyễn Việt Anh</h1><div class='school'>Hanoi – Amsterdam High School for the Gifted · Class 11 Informatics 1</div><div class='tagline'>Informatics-major student · HSGS Olympiad Gold Medalist · Competitive programming</div><div><br><span class='prompt'>$</span> <span class='cmd'>cat achievements.json</span></div><div class='stats'><div class='stat'><b>HCV</b><span>HSGS Olympiad Gold – Informatics 2025</span></div><div class='stat'><b>3rd Prize</b><span>Hanoi City Contest, Grade 12 (2025–26)</span></div><div class='stat'><b>3rd Prize</b><span>VNU Hanoi Olympiad – Informatics</span></div></div></div></div></div></header><nav class='topnav'><a href='#about-en'>About</a><a href='#awards-en'>Awards</a><a href='#journey-en'>Journey</a><a href='#activities-en'>Activities</a><a href='#skills-en'>Skills</a></nav><main class='container'><section id='about-en'><h2>About Me</h2><div class='card'><p style='margin-top:0'>I am Nguyen Viet Anh, a student of Class 11 Informatics 1 at Hanoi – Amsterdam High School for the Gifted. I have pursued competitive programming since middle school and have won Informatics awards at every level: a Gold Medal at the HSGS Olympiad, Third Prize at the Hanoi City Grade-12 Contest and Third Prize at the VNU Hanoi High-School Olympiad — all while still in grade 11. I also volunteer for children&#x27;s causes.</p><blockquote class='quote'>“Every hard problem has a solution — you just need the patience to debug it.”</blockquote></div></section><section id='awards-en'><h2>Honors & Awards</h2><div class='awgrid'><div class='card award reveal rk-gold'><div class='medal'>🥇</div><div class='awbody'><span class='rklab'>Gold</span><h3>Gold Medal in Informatics – HSGS Olympiad</h3><div class='org'>HSGS &amp; VNU University of Science, May 2025</div></div><a class='awthumb' href='assets/img/award-huy-chuong-vang-mon-tin-hoc-hsgs-olympiad-olympic-.jpg'><img src='assets/img/award-huy-chuong-vang-mon-tin-hoc-hsgs-olympiad-olympic-.jpg' alt='Gold Medal in Informatics – HSGS Olympiad' loading='lazy'></a></div><div class='card award reveal rk-bronze'><div class='medal'>🥉</div><div class='awbody'><span class='rklab'>Bronze</span><h3>Third Prize – Hanoi City Excellent Student Contest, Grade-12 Informatics (2025–2026)</h3><div class='org'>Hanoi Department of Education &amp; Training – achieved while in grade 11</div></div><a class='awthumb' href='assets/img/award-giai-ba-ky-thi-chon-hsg-thanh-pho-cac-mon-van-hoa-.jpg'><img src='assets/img/award-giai-ba-ky-thi-chon-hsg-thanh-pho-cac-mon-van-hoa-.jpg' alt='Third Prize – Hanoi City Excellent Student Contest, Grade-12 Informatics (2025–2026)' loading='lazy'></a></div><div class='card award reveal rk-bronze'><div class='medal'>🥉</div><div class='awbody'><span class='rklab'>Bronze</span><h3>Third Prize – VNU Hanoi High-School Olympiad in Informatics (2025–2026)</h3><div class='org'>Vietnam National University, Hanoi</div></div></div><div class='card award reveal rk-silver'><div class='medal'>🥈</div><div class='awbody'><span class='rklab'>Silver</span><h3>Second Prize – District Excellent Student Contest in Informatics (2023–2024)</h3><div class='org'>Cau Giay District – Archimedes Academy Secondary School</div></div><a class='awthumb' href='assets/img/award-giai-nhi-ky-thi-hsg-cap-quan-mon-tin-hoc-2023-2024.jpg'><img src='assets/img/award-giai-nhi-ky-thi-hsg-cap-quan-mon-tin-hoc-2023-2024.jpg' alt='Second Prize – District Excellent Student Contest in Informatics (2023–2024)' loading='lazy'></a></div><div class='card award reveal rk-gold'><div class='medal'>🥇</div><div class='awbody'><span class='rklab'>Gold</span><h3>Gold Award – AI-JAM US 2026 (11th International AI Invention Challenge)</h3><div class='org'>Project “MediCare Hub – All-in-One Smart Home Healthcare Ecosystem”, Sept 2026</div></div><a class='awthumb' href='assets/img/award-gold-award-ai-jam-us-2026-medicare-hub.jpg'><img src='assets/img/award-gold-award-ai-jam-us-2026-medicare-hub.jpg' alt='Gold Award – AI-JAM US 2026' loading='lazy'></a></div><div class='card award reveal rk-gold'><div class='medal'>🏆</div><div class='awbody'><span class='rklab'>Grand Prix</span><h3>Grand Prix Award – AXGO AX Global Olympiad 2026</h3><div class='org'>Project “AI Table Tennis Coach”, Jul 2026</div></div><a class='awthumb' href='assets/img/award-grand-prix-award-axgo-2026-ai-table-tennis-coach.jpg'><img src='assets/img/award-grand-prix-award-axgo-2026-ai-table-tennis-coach.jpg' alt='Grand Prix Award – AXGO AX Global Olympiad 2026' loading='lazy'></a></div></div></section><section id='journey-en'><h2>Journey</h2><div class='card reveal'><div class='tl'><div class='tl-item'><span class='tl-year'>2023</span><p>Second Prize at the district Informatics contest (Cau Giay) while in grade 9 at Archimedes Academy.</p></div><div class='tl-item'><span class='tl-year'>2024</span><p>Admitted to the Informatics-major class at Hanoi – Amsterdam High School for the Gifted.</p></div><div class='tl-item'><span class='tl-year'>2025</span><p>Gold Medal in Informatics at the HSGS Olympiad (May 2025); Third Prize at the Hanoi City grade-12 Informatics contest while in grade 11 (Oct 2025).</p></div><div class='tl-item'><span class='tl-year'>2026</span><p>Third Prize at the VNU Hanoi High-School Olympiad in Informatics (Jan 2026); volunteered at the National Children&#x27;s Hospital; Grand Prix at the AXGO AX Global Olympiad with “AI Table Tennis Coach” (Jul 2026); Gold Award at AI-JAM US with “MediCare Hub” (Sept 2026); developing the “Car safety system” concept.</p></div></div><a href='assets/img/journey-roadmap.jpg'><img class='certimg' style='max-width:100%;margin-top:14px' src='assets/img/journey-roadmap.jpg' alt='journey roadmap' loading='lazy'></a></div></section><section id='activities-en'><h2>Extracurriculars & Projects</h2><div class='actwrap'><div class='card reveal'><h3>Personal project: Car safety system (AI + IoT)</h3><p>Designing a comprehensive car-safety system: a driver-attention monitor combining an ear-worn device with an image-processing camera; sensors detecting children left behind in the car; cabin sensors detecting hazards such as alcohol, cigarette smoke, high temperature and CO2; and an AI + IoT module predicting dangers around the vehicle.</p><ul class='pts'><li>Driver-attention measurement using an ear-worn device combined with an image-processing camera.</li><li>Sensor cluster detecting children accidentally left in the vehicle.</li><li>Cabin-hazard detection: alcohol vapour, cigarette smoke, high temperature, CO2 levels…</li><li>Danger prediction around the vehicle using AI combined with an IoT sensor network.</li></ul><div class='gallery'><a href='assets/img/act0-0.jpg'><img src='assets/img/act0-0.jpg' alt='Personal project: Car safety system (AI + IoT)' loading='lazy'></a></div></div><div class='card reveal'><h3>Volunteering at the National Children&#x27;s Hospital (2026)</h3><p>Visited, gave gifts and organized activities for young patients at the National Children&#x27;s Hospital, Hanoi.</p><div class='gallery'><a href='assets/img/act1-0.jpg'><img src='assets/img/act1-0.jpg' alt='Volunteering at the National Children&#x27;s Hospital (2026)' loading='lazy'></a><a href='assets/img/act1-1.jpg'><img src='assets/img/act1-1.jpg' alt='Volunteering at the National Children&#x27;s Hospital (2026)' loading='lazy'></a><a href='assets/img/act1-2.jpg'><img src='assets/img/act1-2.jpg' alt='Volunteering at the National Children&#x27;s Hospital (2026)' loading='lazy'></a><a href='assets/img/act1-3.jpg'><img src='assets/img/act1-3.jpg' alt='Volunteering at the National Children&#x27;s Hospital (2026)' loading='lazy'></a><a href='assets/img/act1-4.jpg'><img src='assets/img/act1-4.jpg' alt='Volunteering at the National Children&#x27;s Hospital (2026)' loading='lazy'></a><a href='assets/img/act1-5.jpg'><img src='assets/img/act1-5.jpg' alt='Volunteering at the National Children&#x27;s Hospital (2026)' loading='lazy'></a><a href='assets/img/act1-6.jpg'><img src='assets/img/act1-6.jpg' alt='Volunteering at the National Children&#x27;s Hospital (2026)' loading='lazy'></a><a href='assets/img/act1-7.jpg'><img src='assets/img/act1-7.jpg' alt='Volunteering at the National Children&#x27;s Hospital (2026)' loading='lazy'></a></div></div><div class='card reveal'><h3>Tuyên Quang Excursion 2026</h3><p>An extracurricular excursion to Tuyên Quang with students from many schools: hall seminars, exchange sessions and team-building activities.</p><div class='gallery'><a href='assets/img/act2-0.jpg'><img src='assets/img/act2-0.jpg' alt='Tuyên Quang Excursion 2026' loading='lazy'></a><a href='assets/img/act2-1.jpg'><img src='assets/img/act2-1.jpg' alt='Tuyên Quang Excursion 2026' loading='lazy'></a><a href='assets/img/act2-2.jpg'><img src='assets/img/act2-2.jpg' alt='Tuyên Quang Excursion 2026' loading='lazy'></a><a href='assets/img/act2-3.jpg'><img src='assets/img/act2-3.jpg' alt='Tuyên Quang Excursion 2026' loading='lazy'></a><a href='assets/img/act2-4.jpg'><img src='assets/img/act2-4.jpg' alt='Tuyên Quang Excursion 2026' loading='lazy'></a><a href='assets/img/act2-5.jpg'><img src='assets/img/act2-5.jpg' alt='Tuyên Quang Excursion 2026' loading='lazy'></a><a href='assets/img/act2-6.jpg'><img src='assets/img/act2-6.jpg' alt='Tuyên Quang Excursion 2026' loading='lazy'></a><a href='assets/img/act2-7.jpg'><img src='assets/img/act2-7.jpg' alt='Tuyên Quang Excursion 2026' loading='lazy'></a><a href='assets/img/act2-8.jpg'><img src='assets/img/act2-8.jpg' alt='Tuyên Quang Excursion 2026' loading='lazy'></a><a href='assets/img/act2-9.jpg'><img src='assets/img/act2-9.jpg' alt='Tuyên Quang Excursion 2026' loading='lazy'></a><a href='assets/img/act2-10.jpg'><img src='assets/img/act2-10.jpg' alt='Tuyên Quang Excursion 2026' loading='lazy'></a></div></div></div></section><div class='twocol'><section id='skills-en'><h2>Skills</h2><div class='card reveal'><div class='skillgrid' style='grid-template-columns:1fr'><div class='skill'><span>C++ &amp; competitive programming<em>95%</em></span><div class='bar'><i style='width:95%'></i></div></div><div class='skill'><span>Algorithms &amp; data structures<em>92%</em></span><div class='bar'><i style='width:92%'></i></div></div><div class='skill'><span>Python<em>75%</em></span><div class='bar'><i style='width:75%'></i></div></div><div class='skill'><span>Problem solving<em>90%</em></span><div class='bar'><i style='width:90%'></i></div></div><div class='skill'><span>IoT system design<em>70%</em></span><div class='bar'><i style='width:70%'></i></div></div></div><a href='assets/img/skill-radar.jpg'><img class='certimg' style='max-width:100%;margin-top:20px' src='assets/img/skill-radar.jpg' alt='skill radar' loading='lazy'></a></div></section><section><h2>Interests</h2><div class='card'><div class='chips'><span>Competitive programming</span><span>Road safety</span><span>Applied AI</span><span>Volunteering</span></div></div><h2 style='margin-top:26px'>Future Goals</h2><div class='card'><p style='margin-top:0'>My near-term goal is a spot on the national Informatics olympiad team. Longer term, I want to study Computer Science and turn my AI + IoT car-safety system from a design into a working prototype.</p></div></section></div></main><footer>© 2026 Nguyễn Việt Anh · Student Portfolio</footer></div><script>function setLang(l,save){document.body.classList.toggle('lang-en',l==='en');document.documentElement.lang=l;if(save){try{localStorage.setItem('plang',l)}catch(e){}}document.querySelectorAll('.lbtn').forEach(function(b){b.classList.toggle('active',b.dataset.l===l)});}document.querySelectorAll('.lbtn').forEach(function(b){b.addEventListener('click',function(){setLang(b.dataset.l,true)})});var saved='en';try{saved=localStorage.getItem('plang')||'en'}catch(e){}setLang(saved,false);var io=new IntersectionObserver(function(es){es.forEach(function(x){if(x.isIntersecting){x.target.classList.add('in');io.unobserve(x.target)}})},{threshold:.08});document.querySelectorAll('.reveal').forEach(function(el){io.observe(el)});var lb=document.createElement('div');lb.className='lb';lb.innerHTML='<img>';document.body.appendChild(lb);lb.addEventListener('click',function(){lb.classList.remove('open')});document.querySelectorAll('.gallery a,.awthumb').forEach(function(a){a.addEventListener('click',function(ev){ev.preventDefault();lb.querySelector('img').src=a.getAttribute('href');lb.classList.add('open')})});</script></body></html>
